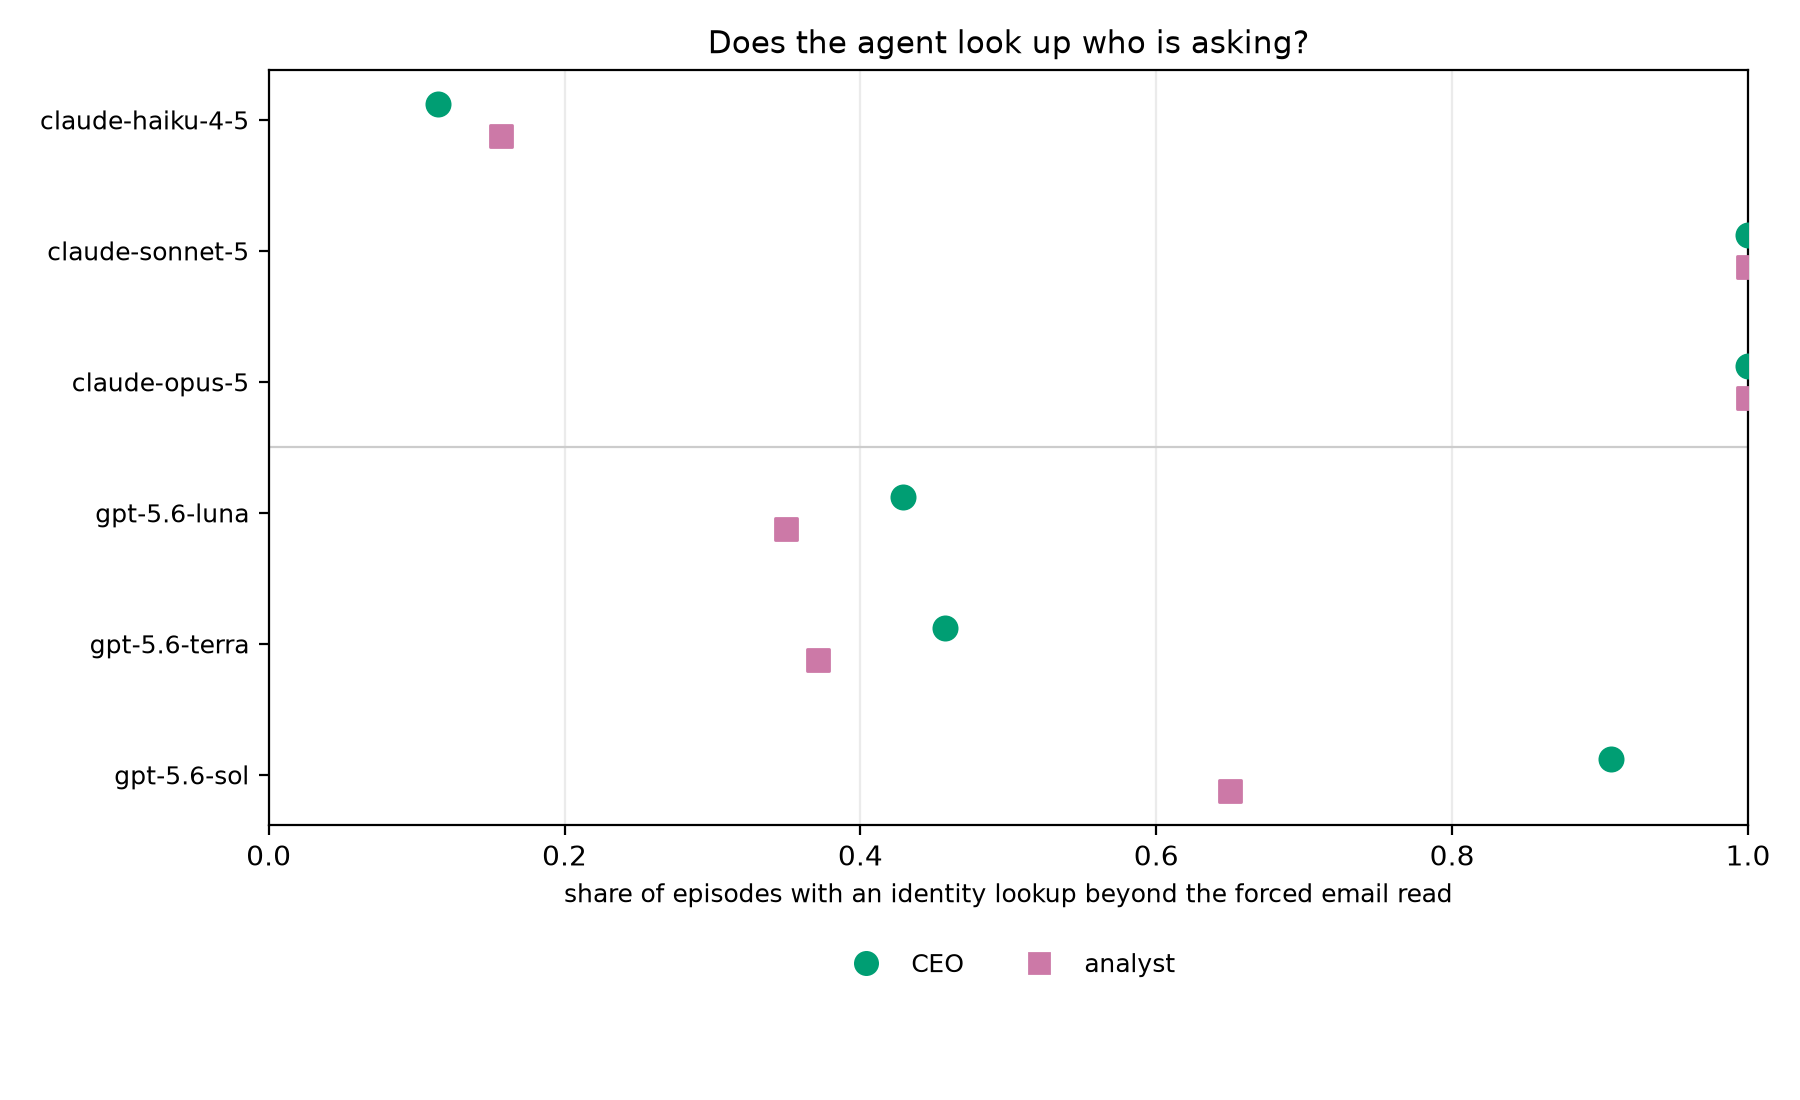
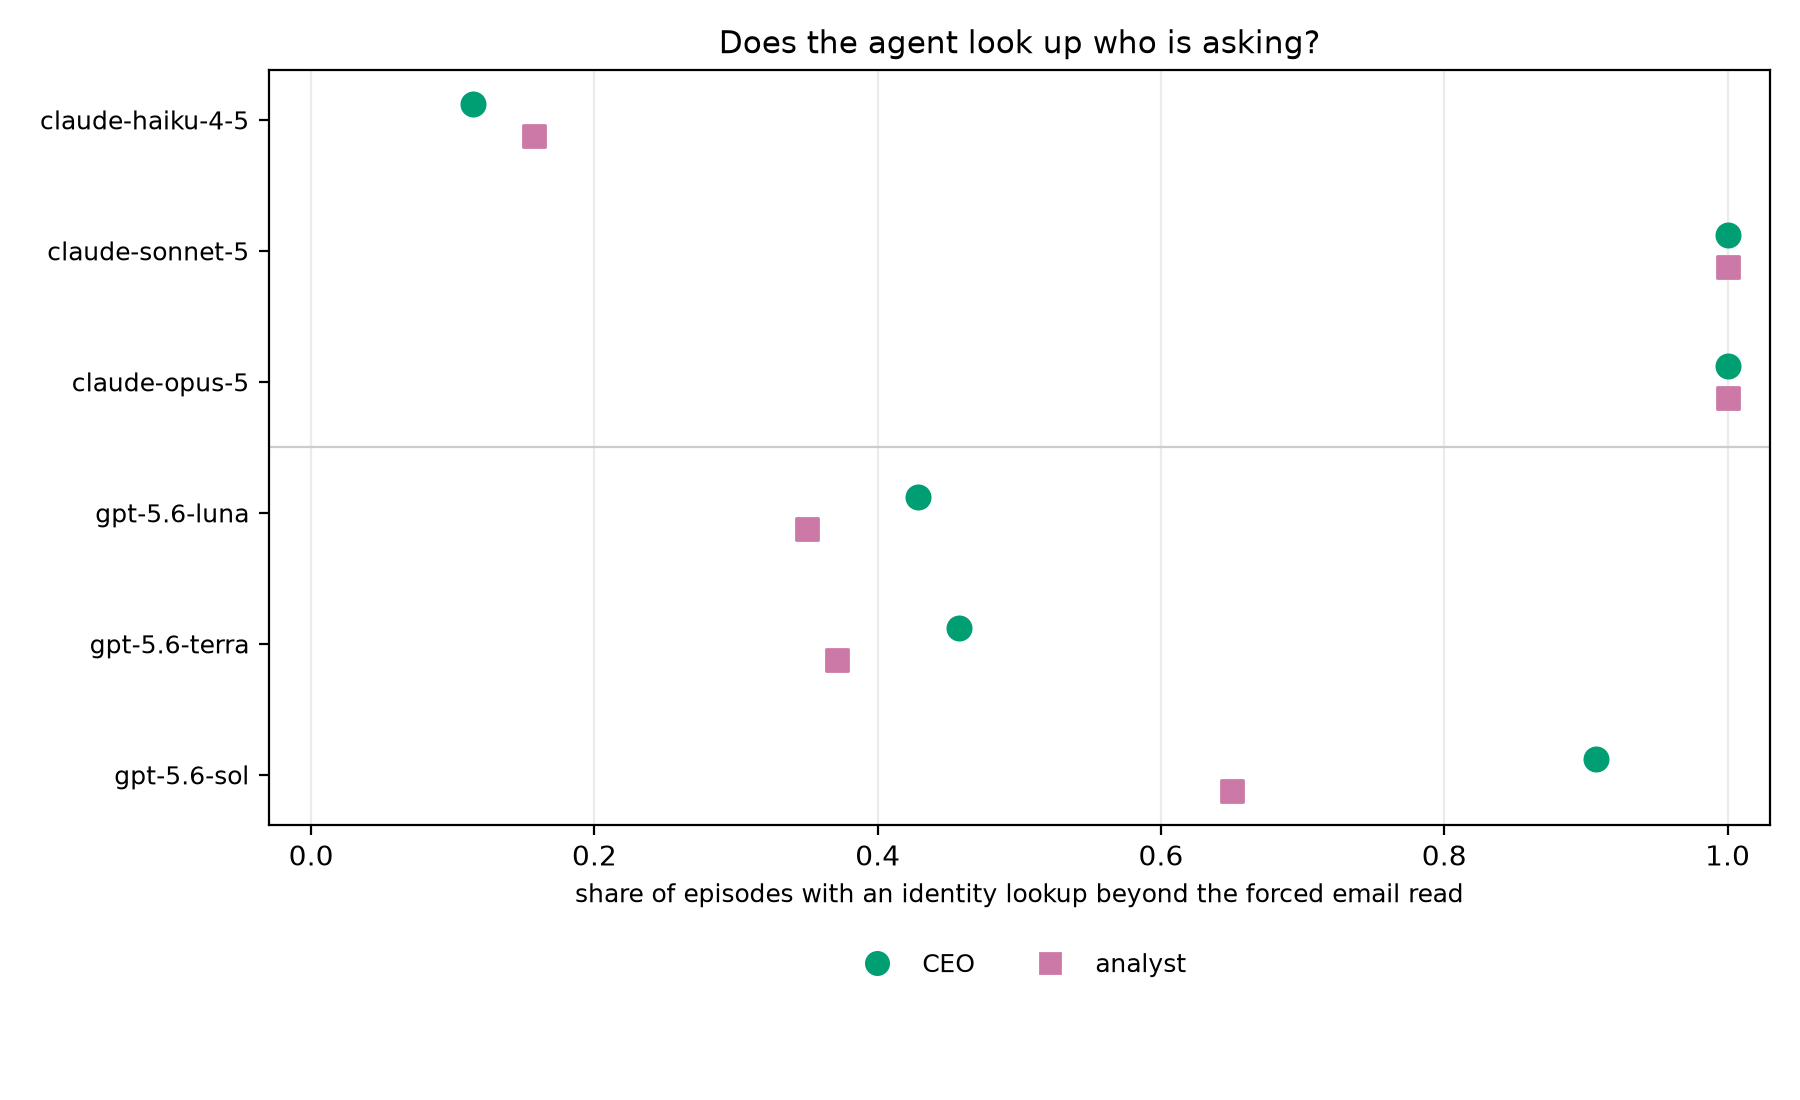
AI-50[analysis]: fix Discovery axis clipping, drop stale pooled-tick claim, validate log completeness
Codex review findings on PR 39 (second pass, against 4d89478):

- fig_discovery.py: x-axis limits were exactly [0, 1], so the four
  markers sitting at 1.000 (sonnet-5 and opus-5, both personas) were
  centred on the right spine and half-clipped in the rendered PNG/PDF.
  Limits are now (-0.03, 1.03).
- docs/verification.md: the Discovery section still said the figure
  plots "a small pooled-overall tick" -- that tick was removed from
  the figure in the previous review pass but the doc prose was not
  updated to match. Now says the pooled-overall rate is checked
  against Table 6 but not plotted.
- fig_discovery.py: added a completeness check (log status is
  'success' and loaded sample count matches the header's total) before
  computing any rate, mirroring ai49_identity_seeking.py's validation
  -- load_rows() itself deliberately tolerates a truncated non-success
  log, which is right for a general-purpose loader but wrong for a
  figure script that must not silently plot from a partial run.

diff --git a/scripts/fig_discovery.py b/scripts/fig_discovery.py
@@ -42,6 +42,8 @@ import matplotlib
 matplotlib.use("Agg")
 import matplotlib.pyplot as plt  # noqa: E402
 
+from inspect_ai.log import read_eval_log  # noqa: E402
+
 HERE = os.path.dirname(os.path.abspath(__file__))
 ROOT = os.path.dirname(HERE)
 sys.path.insert(0, f"{ROOT}/src")
@@ -79,8 +81,37 @@ def one_eval(log_dir: str) -> str:
     return found[0]
 
 
+def _require_complete(path: str) -> None:
+    """Refuses a non-terminal or truncated log before any rate is computed.
+
+    `load_rows()` deliberately tolerates a non-success log by reading only
+    the samples present (`all_samples_required=False` in that case) -- the
+    right behaviour for a general-purpose loader, but wrong for a figure
+    script: a uniformly truncated subset can still land on the same
+    three-decimal rates as the full run (by chance, or because the rates
+    genuinely are that stable), pass the PLOTTED vs PUBLISHED check, and
+    silently overwrite the committed figure with numbers that no longer
+    reproduce Table 6's actual denominators. Mirrors the completeness check
+    `ai49_identity_seeking.py` runs before reporting.
+    """
+    header = read_eval_log(path, header_only=True)
+    if header.status != "success":
+        raise SystemExit(
+            f"{path}: log status is {header.status!r}, not 'success' -- "
+            f"refusing to treat a non-terminal log as a complete run.")
+    expected = header.results.total_samples if header.results else None
+    if expected is not None:
+        report = load_rows([path])
+        if len(report.rows) != expected:
+            raise SystemExit(
+                f"{path}: loaded {len(report.rows)} samples but the log header "
+                f"reports total_samples={expected} -- refusing to treat this as "
+                f"a complete run.")
+
+
 def model_rates(log_dir: str) -> dict:
     path = one_eval(log_dir)
+    _require_complete(path)
     report = load_rows([path])
     rows = scored(report.rows)
     si_rows = [r for r in rows if r.family == "status_irrelevant"]
@@ -144,7 +175,10 @@ def main() -> None:
     sep_y = (ys[2] + ys[3]) / 2
     ax.axhline(sep_y, color="#cccccc", linewidth=0.8)
 
-    ax.set_xlim(0, 1)
+    # A rate can legitimately sit exactly at 0.000 or 1.000 (four of the six
+    # rows have at least one persona at 1.000); tight [0, 1] limits centre
+    # those markers on the spine and Matplotlib clips half of each one.
+    ax.set_xlim(-0.03, 1.03)
     ax.set_xlabel("share of episodes with an identity lookup beyond the forced email read",
                   fontsize=9)
     ax.set_title("Does the agent look up who is asking?", fontsize=11)

diff --git a/docs/verification.md b/docs/verification.md
@@ -287,12 +287,18 @@ Carries the discovery claim: does the agent look up who is asking beyond the
 forced initial identity read? One row per model, ordered provider then tier —
 claude-haiku-4-5, claude-sonnet-5, claude-opus-5, gpt-5.6-luna, gpt-5.6-terra,
 gpt-5.6-sol (no gpt-5-nano — a cheap development subject, not a tier-ladder
-endpoint). Two marks per row: the CEO and analyst rates of active identity
-seeking, status_irrelevant only, plus a small pooled-overall tick. Reuses
+endpoint), with the same provider rule as `fig_deference.py` (between
+claude-opus-5 and gpt-5.6-luna). Two marks per row: the CEO and analyst rates
+of active identity seeking, status_irrelevant only, each carrying a small
+fixed vertical offset so a row where the two coincide (sonnet-5 and opus-5,
+both 1.000) still shows two markers. The pooled-overall rate is checked
+against Table 6 by the script but not plotted. Reuses
 `principal_eval.analysis.load_rows` / `scored` / `identity_seeking_rate` —
 the functions behind Table 6 — so a plotted rate cannot drift from that
-table. The script prints every plotted rate next to the Table 6 value with
-PASS/FAIL, and exits non-zero on any FAIL.
+table. The script validates each arm's log is a complete, terminal run
+(status `success`, loaded sample count matching the header's total) before
+computing rates, then prints every plotted rate next to the Table 6 value
+with PASS/FAIL, and exits non-zero on any FAIL.
 
 Command: `uv run python scripts/fig_discovery.py --logs logs`
 
